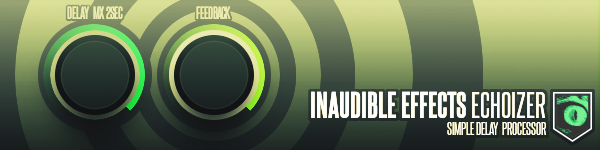
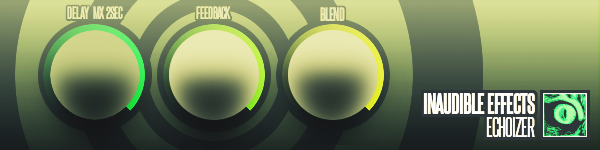
[Echoizer] Added blend (UI side)

Changed region(s): [[0.27, 0.0267, 1.0, 0.96], [0.09, 0.2133, 0.24, 0.7733]]

diff --git a/ui/ui.c b/ui/ui.c
@@ -2,11 +2,12 @@
 
 int main( int argc, char *argv[])
 {
-    GtkWidget *window;
-    GtkWidget *layout;
-    GtkWidget *image;
-	GtkWidget* knobDelay;
-    GtkWidget* knobFeedback;
+    GtkWidget* window;
+    GtkWidget* layout;
+    GtkWidget* image;
+	InaudibleKnob* knobDelay;
+    InaudibleKnob* knobFeedback;
+    InaudibleKnob* knobBlend;
 
     gtk_init(&argc, &argv);
 
@@ -15,19 +16,26 @@ int main( int argc, char *argv[])
     gtk_window_set_position(GTK_WINDOW(window), GTK_WIN_POS_CENTER);
 
     layout = gtk_layout_new(NULL, NULL);
-    gtk_container_add(GTK_CONTAINER (window), layout);
+    gtk_container_add(GTK_CONTAINER(window), layout);
     gtk_widget_show(layout);
 
     image = gtk_image_new_from_file("background.png");
     gtk_layout_put(GTK_LAYOUT(layout), image, 0, 0);
 
-    knobDelay = inaudible_knob_new();
-	gtk_layout_put(GTK_LAYOUT(layout), knobDelay, 55, 35);
-    gtk_widget_set_size_request(knobDelay, 80, 80);
+    knobDelay = (InaudibleKnob*)inaudible_knob_new();
+	gtk_layout_put(GTK_LAYOUT(layout), (GtkWidget*)knobDelay, 55, 35);
+    gtk_widget_set_size_request((GtkWidget*)knobDelay, 80, 80);
+    inaudible_knob_set_hue(knobDelay, 20);
 
-	knobFeedback = inaudible_knob_new();
-	gtk_layout_put(GTK_LAYOUT(layout), knobFeedback, 174, 35);
-    gtk_widget_set_size_request(knobFeedback, 80, 80);
+	knobFeedback = (InaudibleKnob*)inaudible_knob_new();
+	gtk_layout_put(GTK_LAYOUT(layout), (GtkWidget*)knobFeedback, 174, 35);
+    gtk_widget_set_size_request((GtkWidget*)knobFeedback, 80, 80);
+    inaudible_knob_set_hue(knobFeedback, 60);
+
+    knobBlend = (InaudibleKnob*)inaudible_knob_new();
+	gtk_layout_put(GTK_LAYOUT(layout), (GtkWidget*)knobBlend, 293, 35);
+    gtk_widget_set_size_request((GtkWidget*)knobBlend, 80, 80);
+    inaudible_knob_set_hue(knobBlend, 100);
 
 
     g_signal_connect_swapped(G_OBJECT(window), "destroy",

diff --git a/ui/knob.h b/ui/knob.h
@@ -38,7 +38,7 @@ static void     inaudible_knob_class_init(InaudibleKnobClass* klass);
 static void     inaudible_knob_init(InaudibleKnob* knob);
 static gboolean inaudible_knob_value_changed(gpointer obj);
 
-//GType  inaudible_knob_get_type(void);
+//GType         inaudible_knob_get_type(void);
 static gdouble  inaudible_knob_get_value(InaudibleKnob* knob);
 void            inaudible_knob_set_hue(InaudibleKnob* knob, guchar value);
 static void     inaudible_knob_set_range(InaudibleKnob* knob, gdouble min, gdouble max);

diff --git a/ui/knob.c b/ui/knob.c
@@ -258,7 +258,6 @@ inaudible_knob_new(void)
     return widget;
 }
 
-
 static gdouble
 inaudible_knob_get_value(InaudibleKnob* knob)
 {
